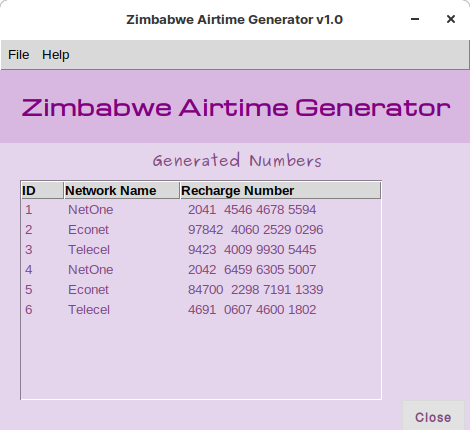
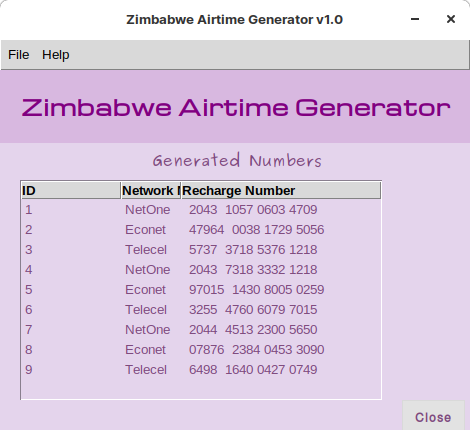
Add files via upload

diff --git a/main.py b/main.py
@@ -93,9 +93,10 @@ def Econet():
 	global rec_pin
 	Rech.set("")
 	cd.set(" * 121 *")
-	eco=str(random.randint(00000,99999))
+	ec=str(random.randint(0,9))
+	eco=str(random.randint(000,999))
 	NumGen()
-	ecnt=(" "+"0"*(5-len(eco))+eco+" "+rec_pin+"")
+	ecnt=(" "+"0"*(1-len(ec))+ec+"7"+"0"*(3-len(eco))+eco+" "+rec_pin+"")
 	Rech.set(ecnt)
 	database()
 	cursor.execute("INSERT INTO 'result' (ntwrk_nm, rec_nmbr) VALUES(?, ?)",(  "Econet", ecnt))
